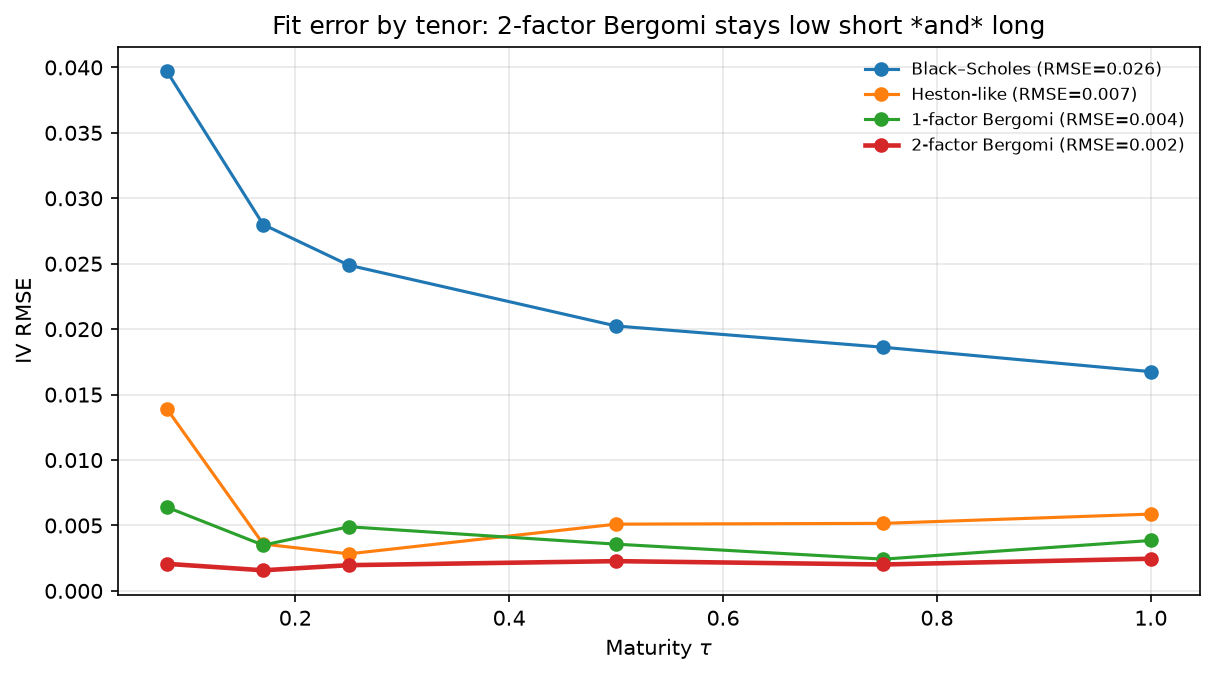
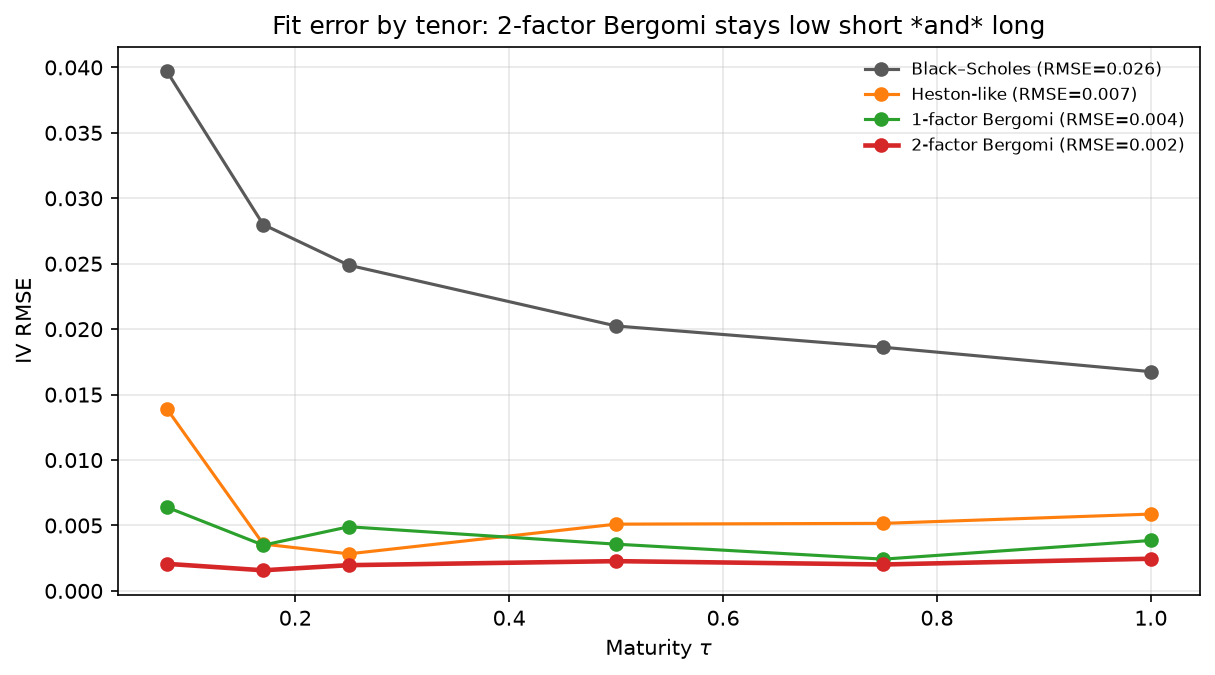
Add tenor-dimension fits to the stochastic volatility demo (#22)
Plot ATM/wing/skew term structures (fixed moneyness, vary maturity) alongside
existing smile slices, and report IV RMSE by moneyness bucket as well as by tenor.

diff --git a/stochastic_volatility_demo/run_demo.py b/stochastic_volatility_demo/run_demo.py
@@ -4,7 +4,7 @@ Stochastic-volatility demo:
 
   1. Download (or synthesize) listed option IVs
   2. Fit BS / Heston / 1F Bergomi / 2F Bergomi parametric surfaces
-  3. Plot market surface, smile fits, and tenor-wise RMSE
+  3. Plot fits across *moneyness* (smiles) and across *tenors* (term structure)
 
 The headline result is that **two-factor Bergomi** achieves the lowest error
 on short *and* long tenors simultaneously.
@@ -28,6 +28,13 @@ from stochastic_volatility_demo.fetch_market import load_or_fetch
 from stochastic_volatility_demo.fit_surfaces import MODEL_FN, fit_all
 
 ART = ROOT / "artifacts"
+
+COLORS = {
+    "Black–Scholes": "0.35",
+    "Heston-like": "C1",
+    "1-factor Bergomi": "C2",
+    "2-factor Bergomi": "C3",
+}
 
 
 def _select_tenors(taus: np.ndarray, n: int = 4) -> list[float]:
@@ -63,12 +70,6 @@ def plot_smile_fits(df: pd.DataFrame, fits, path: Path):
     tenors = _select_tenors(df["tau"].to_numpy(), n=4)
     fig, axes = plt.subplots(2, 2, figsize=(11.0, 7.5), dpi=150, sharey=True)
     axes = axes.ravel()
-    colors = {
-        "Black–Scholes": "0.35",
-        "Heston-like": "C1",
-        "1-factor Bergomi": "C2",
-        "2-factor Bergomi": "C3",
-    }
     k_line = np.linspace(df["k"].min(), df["k"].max(), 120)
     for ax, tau in zip(axes, tenors):
         mkt = df[np.isclose(df["tau"], tau, atol=1e-3)].sort_values("k")
@@ -78,7 +79,7 @@ def plot_smile_fits(df: pd.DataFrame, fits, path: Path):
             ax.plot(
                 k_line,
                 pred,
-                color=colors[fr.name],
+                color=COLORS[fr.name],
                 lw=2.0 if "2-factor" in fr.name else 1.5,
                 label=fr.name,
             )
@@ -93,8 +94,109 @@ def plot_smile_fits(df: pd.DataFrame, fits, path: Path):
     plt.close(fig)
 
 
+def _market_term_structure(df: pd.DataFrame, k_star: float = 0.0, k_tol: float = 0.03):
+    """Nearest-to-target-k IV at each tenor (for ATM / wing term structures)."""
+    rows = []
+    for tau, g in df.groupby(df["tau"].round(6)):
+        j = (g["k"] - k_star).abs().idxmin()
+        if abs(float(g.loc[j, "k"]) - k_star) > k_tol:
+            continue
+        rows.append((float(tau), float(g.loc[j, "iv"]), float(g.loc[j, "k"])))
+    rows.sort(key=lambda z: z[0])
+    if not rows:
+        return np.array([]), np.array([])
+    return np.array([r[0] for r in rows]), np.array([r[1] for r in rows])
+
+
+def _market_skew_term_structure(df: pd.DataFrame, k_rr: float = 0.10):
+    """Skew proxy IV(-k_rr) − IV(+k_rr) across tenors."""
+    rows = []
+    for tau, g in df.groupby(df["tau"].round(6)):
+        left = g.iloc[(g["k"] + k_rr).abs().argmin()]
+        right = g.iloc[(g["k"] - k_rr).abs().argmin()]
+        if abs(float(left["k"]) + k_rr) > 0.04 or abs(float(right["k"]) - k_rr) > 0.04:
+            continue
+        rows.append((float(tau), float(left["iv"]) - float(right["iv"])))
+    rows.sort(key=lambda z: z[0])
+    if not rows:
+        return np.array([]), np.array([])
+    return np.array([r[0] for r in rows]), np.array([r[1] for r in rows])
+
+
+def plot_tenor_fits(df: pd.DataFrame, fits, path: Path):
+    """
+    Fit quality across maturity: ATM term structure, wing term structure,
+    and skew term structure — the tenor analogue of the moneyness smile plots.
+    """
+    fig, axes = plt.subplots(1, 3, figsize=(13.2, 4.3), dpi=150)
+    tau_line = np.linspace(float(df["tau"].min()), float(df["tau"].max()), 80)
+
+    # ATM
+    t_m, iv_m = _market_term_structure(df, k_star=0.0)
+    axes[0].scatter(t_m, iv_m, s=28, color="k", zorder=5, label="Market")
+    for fr in fits:
+        pred = MODEL_FN[fr.name](
+            np.zeros_like(tau_line), tau_line, **fr.params
+        )
+        axes[0].plot(
+            tau_line,
+            pred,
+            color=COLORS[fr.name],
+            lw=2.2 if "2-factor" in fr.name else 1.5,
+            label=fr.name,
+        )
+    axes[0].set_title("ATM IV term structure")
+    axes[0].set_xlabel(r"Maturity $\tau$")
+    axes[0].set_ylabel(r"$\sigma_{\mathrm{ATM}}(\tau)$")
+
+    # 10-delta-ish put wing (k = -0.10)
+    t_w, iv_w = _market_term_structure(df, k_star=-0.10, k_tol=0.04)
+    axes[1].scatter(t_w, iv_w, s=28, color="k", zorder=5, label="Market")
+    for fr in fits:
+        pred = MODEL_FN[fr.name](
+            np.full_like(tau_line, -0.10), tau_line, **fr.params
+        )
+        axes[1].plot(
+            tau_line,
+            pred,
+            color=COLORS[fr.name],
+            lw=2.2 if "2-factor" in fr.name else 1.5,
+            label=fr.name,
+        )
+    axes[1].set_title(r"Put wing $k=-0.10$ vs $\tau$")
+    axes[1].set_xlabel(r"Maturity $\tau$")
+    axes[1].set_ylabel("IV")
+
+    # Skew
+    t_s, sk_m = _market_skew_term_structure(df, k_rr=0.10)
+    axes[2].scatter(t_s, sk_m, s=28, color="k", zorder=5, label="Market")
+    for fr in fits:
+        left = MODEL_FN[fr.name](np.full_like(tau_line, -0.10), tau_line, **fr.params)
+        right = MODEL_FN[fr.name](np.full_like(tau_line, 0.10), tau_line, **fr.params)
+        axes[2].plot(
+            tau_line,
+            left - right,
+            color=COLORS[fr.name],
+            lw=2.2 if "2-factor" in fr.name else 1.5,
+            label=fr.name,
+        )
+    axes[2].set_title(r"Skew $\mathrm{IV}(-0.10)-\mathrm{IV}(+0.10)$")
+    axes[2].set_xlabel(r"Maturity $\tau$")
+    axes[2].set_ylabel("Skew")
+
+    for ax in axes:
+        ax.grid(True, alpha=0.3)
+        ax.legend(frameon=False, fontsize=7)
+    fig.suptitle(
+        "Fitted term structures vs market — moneyness held fixed, vary maturity",
+        y=1.02,
+    )
+    fig.tight_layout()
+    fig.savefig(path, bbox_inches="tight", facecolor="white")
+    plt.close(fig)
+
+
 def plot_errors_by_tenor(fits, path: Path):
-    # Union of tenors
     tenors = sorted({t for fr in fits for t in fr.rmse_by_tenor})
     fig, ax = plt.subplots(figsize=(8.2, 4.6), dpi=150)
     for fr in fits:
@@ -103,6 +205,7 @@ def plot_errors_by_tenor(fits, path: Path):
             tenors,
             ys,
             "o-",
+            color=COLORS[fr.name],
             lw=2.2 if "2-factor" in fr.name else 1.5,
             label=f"{fr.name} (RMSE={fr.rmse:.3f})",
         )
@@ -110,6 +213,41 @@ def plot_errors_by_tenor(fits, path: Path):
     ax.set_ylabel("IV RMSE")
     ax.set_title("Fit error by tenor: 2-factor Bergomi stays low short *and* long")
     ax.grid(True, alpha=0.3)
+    ax.legend(frameon=False, fontsize=8)
+    fig.tight_layout()
+    fig.savefig(path, bbox_inches="tight", facecolor="white")
+    plt.close(fig)
+
+
+def plot_errors_by_moneyness(fits, path: Path):
+    """Companion to tenor RMSE: error buckets across log-moneyness."""
+    # Use 2F keys as canonical bin order when present
+    keys = None
+    for fr in fits:
+        if "2-factor" in fr.name:
+            keys = list(fr.rmse_by_moneyness.keys())
+            break
+    if not keys:
+        keys = list(fits[0].rmse_by_moneyness.keys())
+
+    x = np.arange(len(keys))
+    width = 0.18
+    fig, ax = plt.subplots(figsize=(9.0, 4.6), dpi=150)
+    for i, fr in enumerate(fits):
+        ys = [fr.rmse_by_moneyness.get(k, np.nan) for k in keys]
+        ax.bar(
+            x + (i - 1.5) * width,
+            ys,
+            width=width,
+            color=COLORS[fr.name],
+            label=fr.name,
+        )
+    ax.set_xticks(x)
+    ax.set_xticklabels([k.replace(":", "–") for k in keys], rotation=15)
+    ax.set_xlabel(r"Log-moneyness bucket $k$")
+    ax.set_ylabel("IV RMSE")
+    ax.set_title("Fit error by moneyness: wings vs ATM")
+    ax.grid(True, axis="y", alpha=0.3)
     ax.legend(frameon=False, fontsize=8)
     fig.tight_layout()
     fig.savefig(path, bbox_inches="tight", facecolor="white")
@@ -132,7 +270,9 @@ def main(symbol: str = "SPY"):
 
     plot_market_surface(df, ART / "market_iv_surface.png")
     plot_smile_fits(df, fits, ART / "model_fits_smiles.png")
+    plot_tenor_fits(df, fits, ART / "model_fits_tenors.png")
     plot_errors_by_tenor(fits, ART / "fit_errors_by_tenor.png")
+    plot_errors_by_moneyness(fits, ART / "fit_errors_by_moneyness.png")
 
     report = {
         "market": meta,
@@ -142,7 +282,10 @@ def main(symbol: str = "SPY"):
                 "rmse": fr.rmse,
                 "mae": fr.mae,
                 "params": fr.params,
-                "rmse_by_tenor": {str(k): v for k, v in fr.rmse_by_tenor.items()},
+                "rmse_by_tenor": {str(a): b for a, b in fr.rmse_by_tenor.items()},
+                "rmse_by_moneyness": {
+                    str(a): b for a, b in fr.rmse_by_moneyness.items()
+                },
             }
             for fr in fits
         ],

diff --git a/stochastic_volatility_demo/fit_surfaces.py b/stochastic_volatility_demo/fit_surfaces.py
@@ -61,10 +61,36 @@ class FitResult:
     rmse: float
     mae: float
     rmse_by_tenor: dict
+    rmse_by_moneyness: dict
 
 
 def _pack(names, x):
     return {n: float(v) for n, v in zip(names, x)}
+
+
+def _rmse_by_tenor(tau: np.ndarray, err: np.ndarray) -> dict:
+    by = {}
+    for t in np.unique(np.round(tau, 6)):
+        m = np.isclose(tau, t, atol=1e-4)
+        if m.any():
+            by[float(t)] = float(np.sqrt(np.mean(err[m] ** 2)))
+    return by
+
+
+def _rmse_by_moneyness(k: np.ndarray, err: np.ndarray, n_bins: int = 5) -> dict:
+    """Bucket log-moneyness into equal-count bins and report IV RMSE in each."""
+    if len(k) < n_bins:
+        n_bins = max(1, len(k))
+    qs = np.linspace(0.0, 1.0, n_bins + 1)
+    edges = np.unique(np.quantile(k, qs))
+    if len(edges) < 2:
+        return {f"{float(k.min()):.2f}:{float(k.max()):.2f}": float(np.sqrt(np.mean(err**2)))}
+    by = {}
+    for lo, hi in zip(edges[:-1], edges[1:]):
+        m = (k >= lo) & (k <= hi if hi == edges[-1] else k < hi)
+        if m.any():
+            by[f"{lo:.2f}:{hi:.2f}"] = float(np.sqrt(np.mean(err[m] ** 2)))
+    return by
 
 
 def fit_model(name, fn, names, x0, bounds, k, tau, iv) -> FitResult:
@@ -77,18 +103,13 @@ def fit_model(name, fn, names, x0, bounds, k, tau, iv) -> FitResult:
     sol = least_squares(resid, x0=np.asarray(x0, float), bounds=(lo, hi), max_nfev=400)
     pred = fn(k, tau, **_pack(names, sol.x))
     err = pred - iv
-    tenors = np.unique(np.round(tau, 6))
-    by = {}
-    for t in tenors:
-        m = np.isclose(tau, t, atol=1e-4)
-        if m.any():
-            by[float(t)] = float(np.sqrt(np.mean(err[m] ** 2)))
     return FitResult(
         name=name,
         params=_pack(names, sol.x),
         rmse=float(np.sqrt(np.mean(err**2))),
         mae=float(np.mean(np.abs(err))),
-        rmse_by_tenor=by,
+        rmse_by_tenor=_rmse_by_tenor(tau, err),
+        rmse_by_moneyness=_rmse_by_moneyness(k, err),
     )
 
 

diff --git a/stochastic_volatility_demo/README.md b/stochastic_volatility_demo/README.md
@@ -23,10 +23,12 @@ Artifacts land in `stochastic_volatility_demo/artifacts/`:
 | File | Content |
 |------|---------|
 | `market_iv_surface.png` | Market IV by moneyness / tenor |
-| `model_fits_smiles.png` | Fitted smiles vs market at several tenors |
+| `model_fits_smiles.png` | Fitted smiles vs market (**across moneyness**, fixed τ) |
+| `model_fits_tenors.png` | ATM / wing / skew term structures (**across τ**, fixed k) |
 | `fit_errors_by_tenor.png` | RMSE by maturity — 2F wins on short+long |
+| `fit_errors_by_moneyness.png` | RMSE by log-moneyness bucket |
 | `market_quotes.csv` | Filtered quotes used for the fit |
-| `fit_report.json` | Parameters + RMSE table |
+| `fit_report.json` | Parameters + RMSE by tenor and by moneyness |
 
 Default underlier: **SPY** via Yahoo Finance (`yfinance`). If the live
 download fails (weekend / rate limit), the script falls back to a cached
